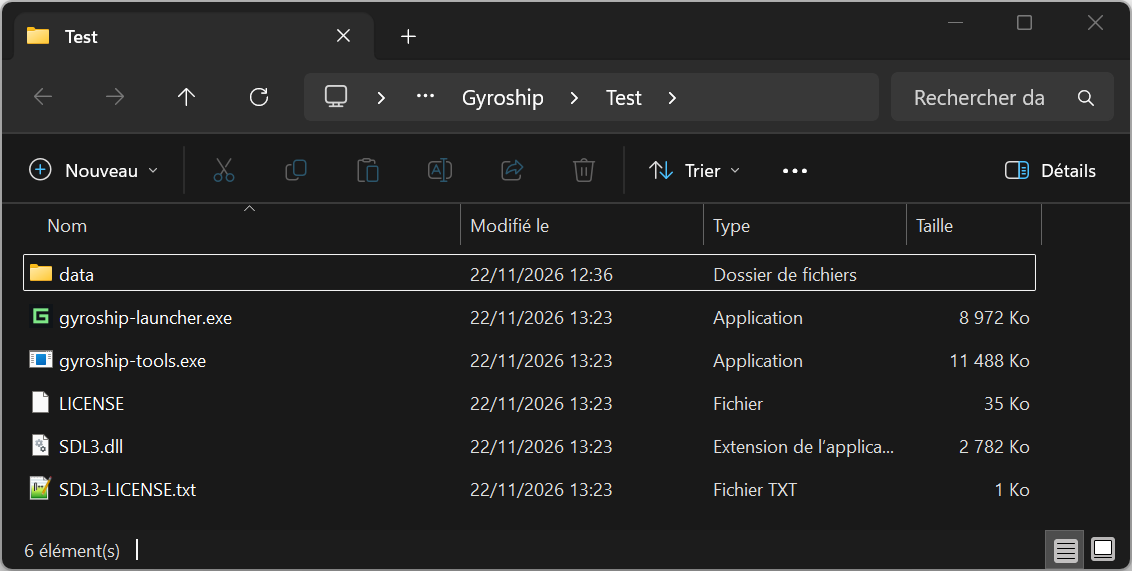
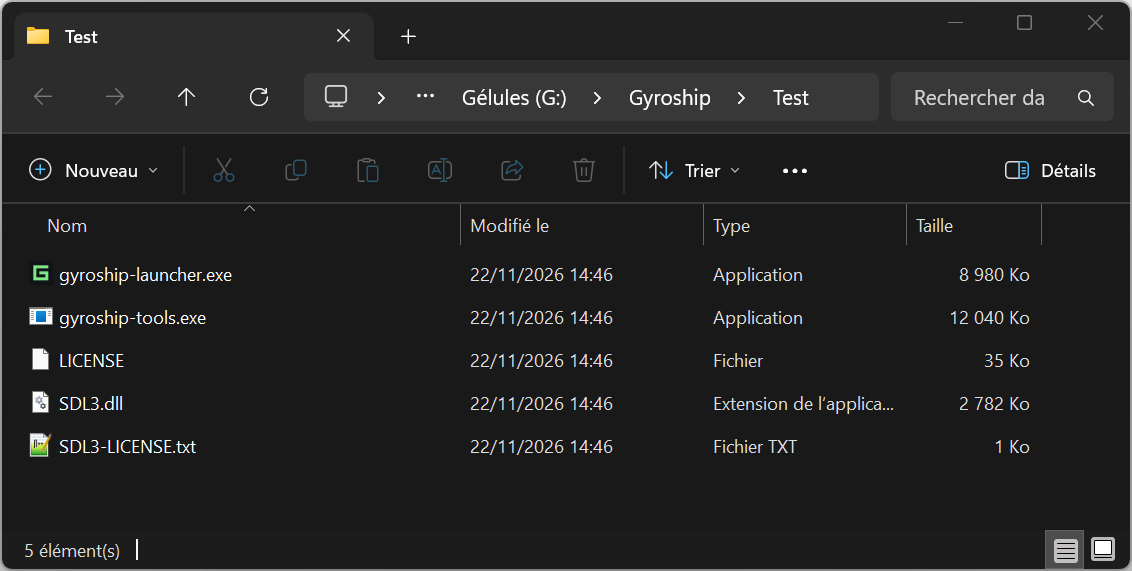
Guide the 1.1.0 install: the launcher makes the data folder and builds the mods
The README's install guide no longer asks for an empty data folder: the launcher makes it when
"Use the data folder for the save and the cache" is pressed. Set up everything now builds the mods
too, and Play's Mod list offers them. Steps 2, 4 and 7 have new screenshots, taken from a new
install from zero with this release's programs.

diff --git a/README.md b/README.md
@@ -113,11 +113,11 @@ when it is missing. Here is one install from zero, on drive G:; any folders will
 
 2. **Get the programs** of the same release: unzip `gyroship-<version>-windows-x64.zip` in a
    folder of its own. It holds the launcher, the tools and `SDL3.dll` for gamepads and sound, with
-   their licences: nothing to build. Add an empty folder for your data (saves, shader cache,
-   logs). Here: `G:\Gyroship\Test`, with its folder `data`. The release's `SHA256SUMS.txt` holds
-   both archives' SHA-256; `certutil -hashfile <archive> SHA256` prints an archive's, to compare.
+   their licences: nothing to build. Here: `G:\Gyroship\Test`. The release's `SHA256SUMS.txt`
+   holds both archives' SHA-256; `certutil -hashfile <archive> SHA256` prints an archive's, to
+   compare.
 
-   ![The programs, their licences and the data folder](docs/install/2-programs.png)
+   ![The programs and their licences](docs/install/2-programs.png)
 
 3. **Find your dump's `exefs` folder**, the update's, with its `romfs` folder next to it. Here:
    `G:\Gyroship\Dump\update\exefs`.
@@ -126,8 +126,9 @@ when it is missing. Here is one install from zero, on drive G:; any folders will
 
 4. **Start `gyroship-launcher.exe` and open Setup.** Windows may first warn that it does not know
    the program: More info, then Run anyway. In step 1, give the sources' folder as the Repository
-   and your data folder as the Data folder, then press "Use the data folder for the save and the
-   cache".
+   and a folder for your data (saves, shader cache, mods, logs) as the Data folder, then press "Use
+   the data folder for the save and the cache": the launcher makes the folders. Here:
+   `G:\Gyroship\Test\data`.
 
    ![Setup, step 1: the folders](docs/install/4-folders.png)
 
@@ -143,12 +144,13 @@ when it is missing. Here is one install from zero, on drive G:; any folders will
 
 6. **Back in Setup, press Set up everything.** It installs what is missing (you accept the
    packages' licences, and the C++ tools ask for administrator rights), recompiles the game from
-   your dump (about two minutes) and builds it (a few minutes the first time), until it says Done.
+   your dump (about two minutes), builds it (a few minutes the first time) and builds the mods from
+   your dump (a few seconds), until it says Done.
 
    ![Setup: everything done](docs/install/7-done.png)
 
 7. **Press Play.** To practise, give Play the repository's `templates\practice.txt` as Practice
-   file ([docs/practice.md](docs/practice.md)).
+   file ([docs/practice.md](docs/practice.md)); to play with a mod, pick it in the Mod list.
 
    ![Play: ready](docs/install/8-play.png)
 
